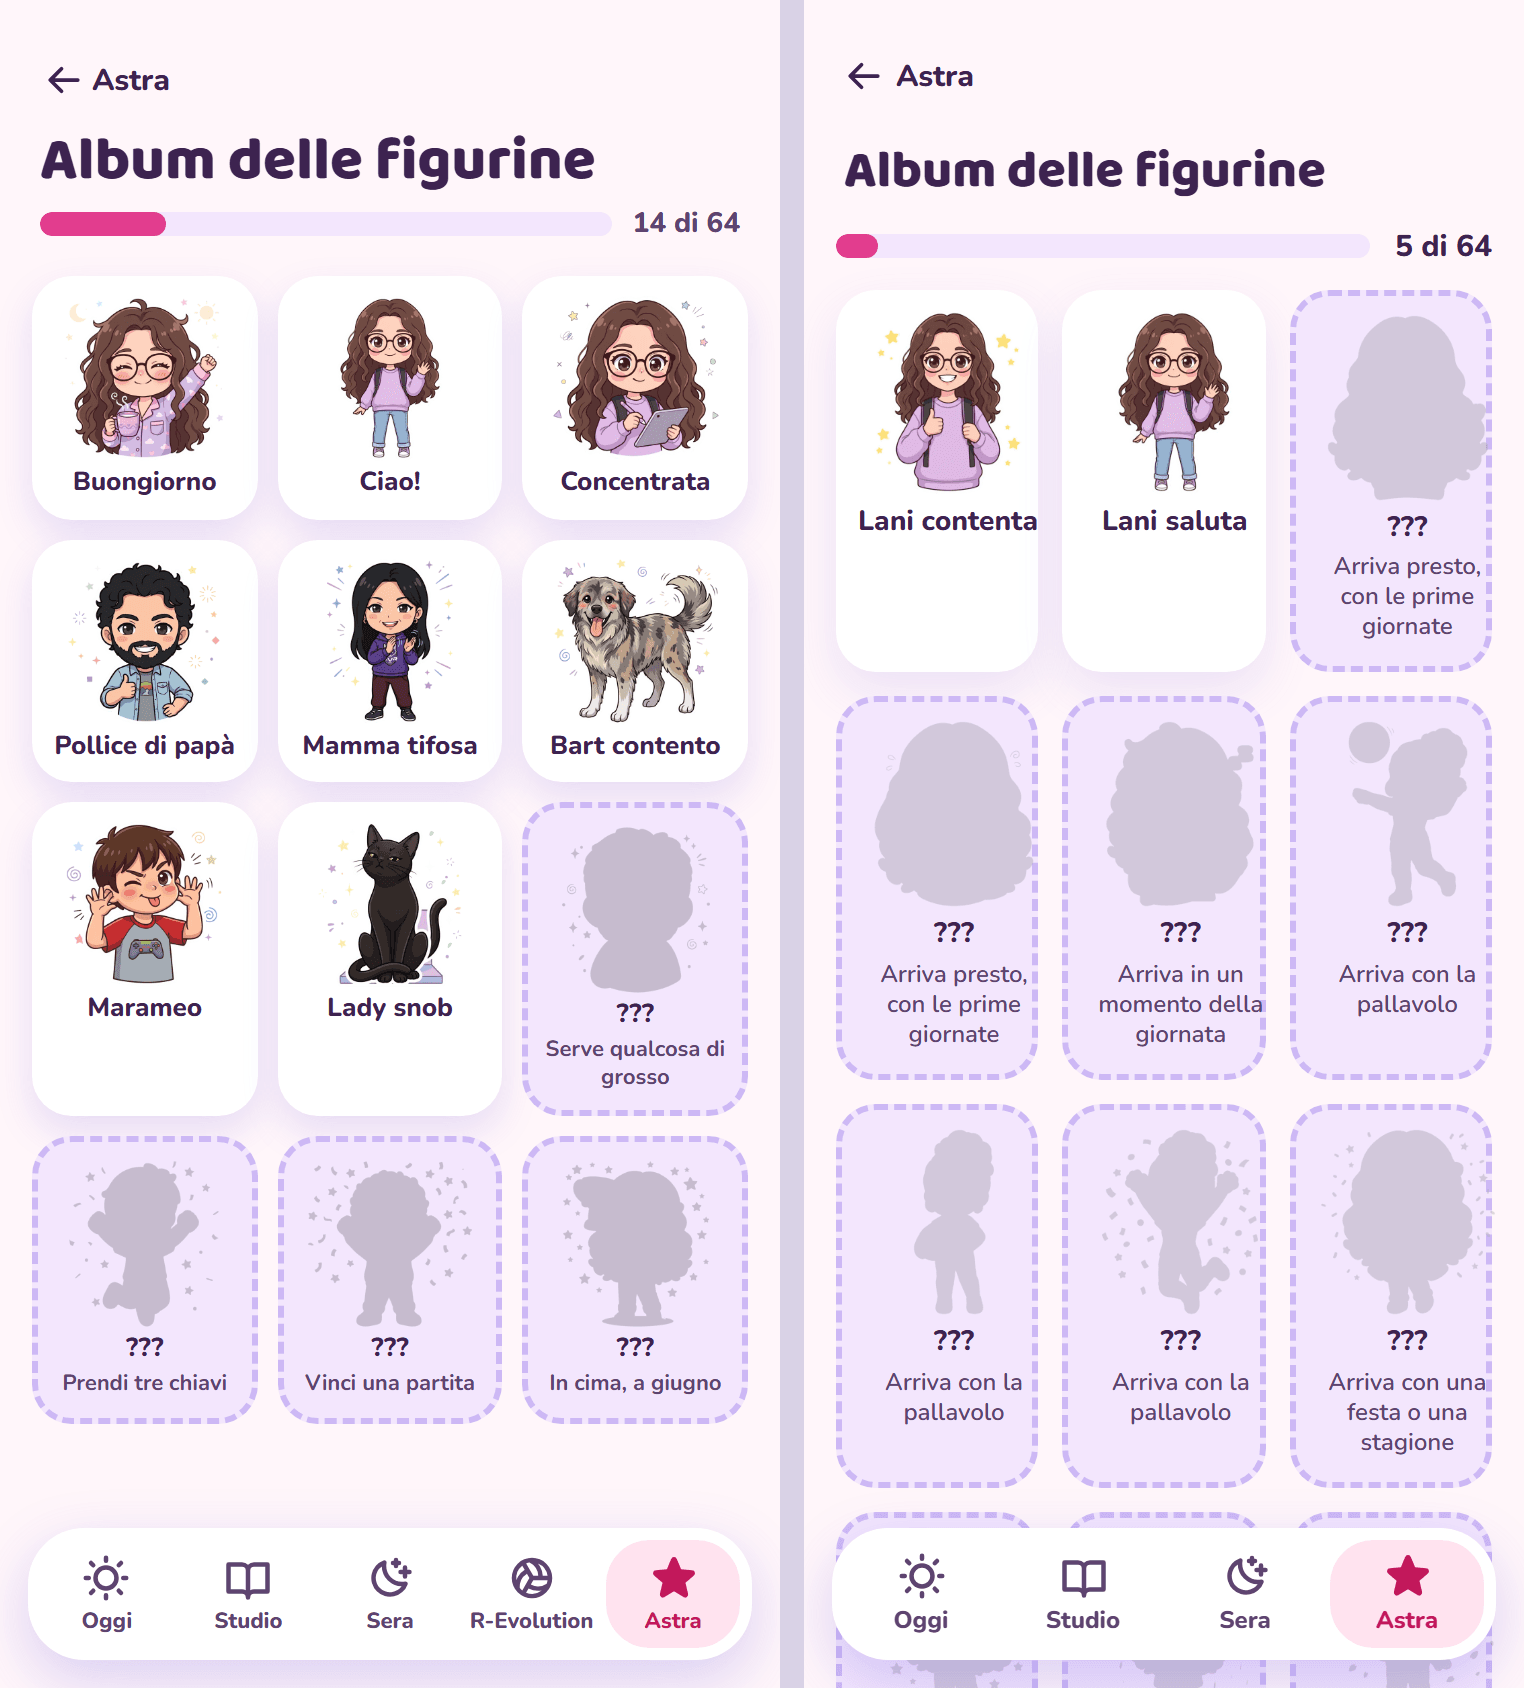
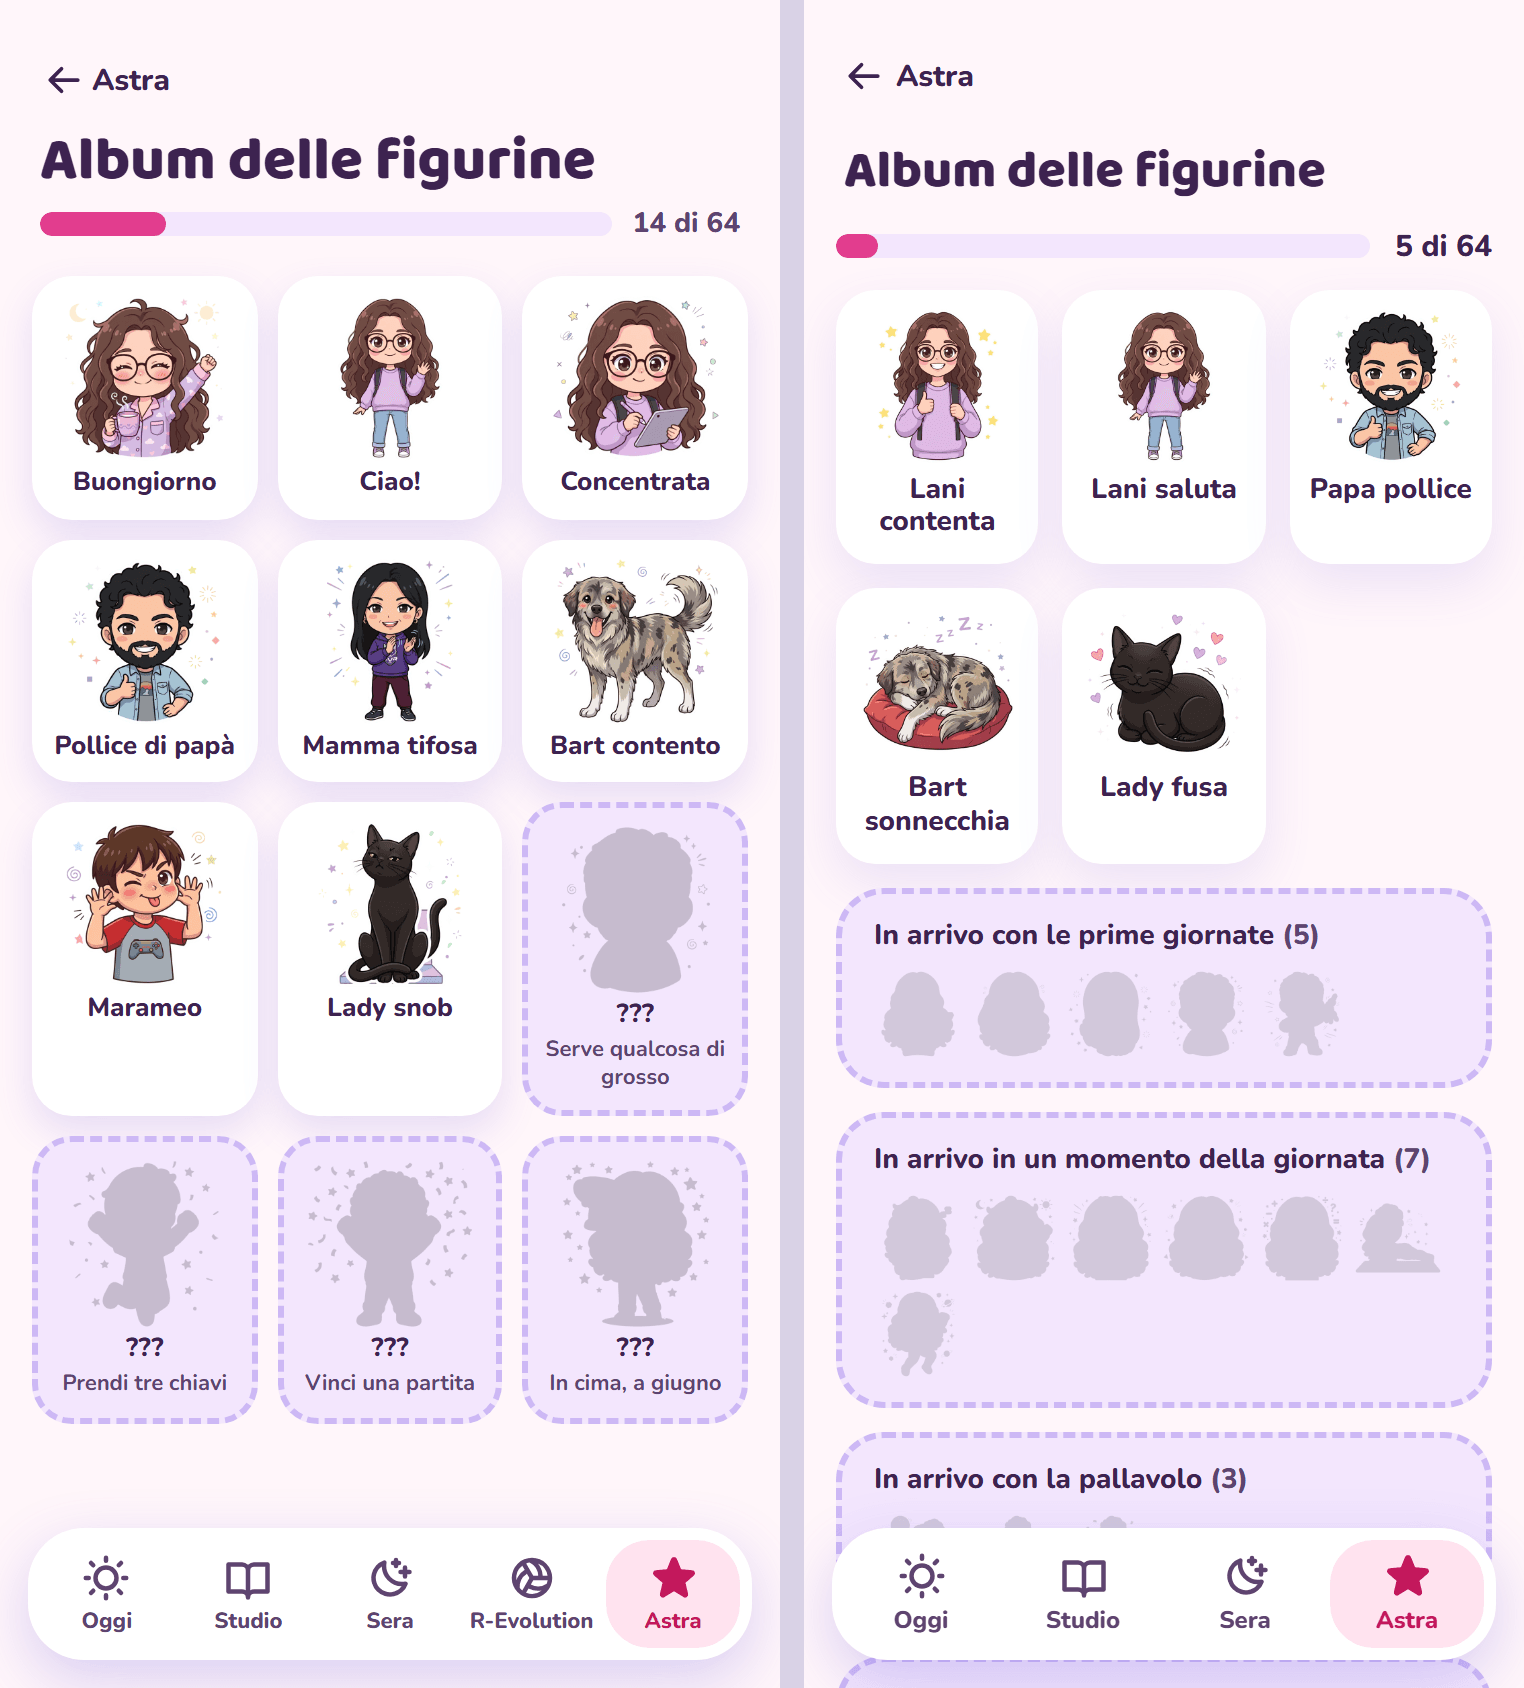
Revisione UI 12 (Album): figurine da prendere raccolte per momento
- le caselle bloccate dello stesso momento stanno in un riquadro, es.
  'In arrivo con la pallavolo (3)', con le sagome piccole; la serie
  nera in 'Si riscattano con 7 giorni fatti bene (n)'
- figurine prese con l'immagine a 80 px, caselle più regolari
- nome delle figurine: 'Papà pollice' (era 'Papa'), anche nella riga
  'Nuova figurina' dei popup; prova nuova

diff --git a/src/Figurine.tsx b/src/Figurine.tsx
@@ -13,19 +13,21 @@ type Voto = { materia_id: string; data: string; voto: number; materie: { nome: s
 const POSE = manifest.avatar.filter((a) => a.personaggio !== 'allenatore');
 const NERA = (tono: string) => tono === 'arrabbiato' || tono === 'dispettoso';
 // ponytail: indizi per categoria; se servono indizi posa per posa, metterli nel manifest.
-const INDIZI: Record<string, string> = {
-  base: 'Arriva presto, con le prime giornate',
-  momento: 'Arriva in un momento della giornata',
-  sport: 'Arriva con la pallavolo',
-  stagione: 'Arriva con una festa o una stagione',
-  negativo: 'Arriva nei giorni storti',
-  extra: 'Rara: esce da un forziere',
-  tifo: 'Arriva quando mamma o papà fanno il tifo',
-  affettuoso: 'Arriva con Leo',
-  scherzoso: 'Arriva con Leo',
-  passioni: 'Rara: esce da un forziere',
-  animale: 'Arriva con Bart o Lady',
+/** Le figurine ancora da prendere stanno in un riquadro per momento (decisione del signore, 9/11). */
+const IN_ARRIVO: Record<string, string> = {
+  base: 'In arrivo con le prime giornate',
+  momento: 'In arrivo in un momento della giornata',
+  sport: 'In arrivo con la pallavolo',
+  stagione: 'In arrivo con una festa o una stagione',
+  negativo: 'In arrivo nei giorni storti',
+  extra: 'Rare: escono dai forzieri',
+  tifo: 'In arrivo quando mamma o papà fanno il tifo',
+  affettuoso: 'In arrivo con Leo',
+  scherzoso: 'In arrivo con Leo',
+  passioni: 'Rare: escono dai forzieri',
+  animale: 'In arrivo con Bart o Lady',
 };
+const RISCATTO = 'Si riscattano con 7 giorni fatti bene';
 
 export function Figurina({ chiudi }: { chiudi: () => void }) {
   useSfondo('viola');
@@ -141,15 +143,29 @@ export function Album({ chiudi }: { chiudi: () => void }) {
   const normali = POSE.filter((p) => !NERA(p.tono));
   const nere = POSE.filter((p) => NERA(p.tono));
   const prese64 = POSE.filter((p) => prese.has(p.id)).length;
-  const casella = (p: (typeof POSE)[number], nera: boolean) => {
-    const presa = prese.has(p.id);
-    return (
-      <li key={p.id} className={presa ? 'presa' : 'da-scoprire'}>
-        <img src={`/${p.webp}`} alt={presa ? p.descrizione : ''} width={96} height={96} loading="lazy" />
-        {presa ? <b>{nomeFigurina(p.id)}</b> : <b aria-hidden>???</b>}
-        {!presa && <small>{nera ? 'Si riscatta con 7 giorni fatti bene' : INDIZI[p.categoria] ?? 'Da scoprire'}</small>}
-      </li>
-    );
+  type Posa = (typeof POSE)[number];
+  const presa = (p: Posa) => (
+    <li key={p.id} className="presa">
+      <img src={`/${p.webp}`} alt={p.descrizione} width={96} height={96} loading="lazy" />
+      <b>{nomeFigurina(p.id)}</b>
+    </li>
+  );
+  /** Le figurine da prendere, raccolte per momento: "In arrivo con la pallavolo (6)" con le sagome piccole. */
+  const inArrivo = (pose: Posa[], titolo: (p: Posa) => string) => {
+    const gruppi = new Map<string, Posa[]>();
+    for (const p of pose.filter((x) => !prese.has(x.id))) gruppi.set(titolo(p), [...(gruppi.get(titolo(p)) ?? []), p]);
+    return [...gruppi].map(([nome, lista]) => (
+      <div key={nome} className="in-arrivo">
+        <p>
+          {nome} <span>({lista.length})</span>
+        </p>
+        <div className="sagome" aria-hidden>
+          {lista.map((p) => (
+            <img key={p.id} src={`/${p.webp}`} alt="" width={44} height={44} loading="lazy" />
+          ))}
+        </div>
+      </div>
+    ));
   };
 
   return (
@@ -164,10 +180,12 @@ export function Album({ chiudi }: { chiudi: () => void }) {
           {prese64} di {POSE.length}
         </p>
       </div>
-      <ul className="album">{normali.map((p) => casella(p, false))}</ul>
+      <ul className="album">{normali.filter((p) => prese.has(p.id)).map(presa)}</ul>
+      {inArrivo(normali, (p) => IN_ARRIVO[p.categoria] ?? 'Da scoprire')}
       <h2>Serie nera</h2>
       <p className="nota">Non danno passi: si sbloccano con il riscatto. L'album si completa anche senza.</p>
-      <ul className="album">{nere.map((p) => casella(p, true))}</ul>
+      {nere.some((p) => prese.has(p.id)) && <ul className="album">{nere.filter((p) => prese.has(p.id)).map(presa)}</ul>}
+      {inArrivo(nere, () => RISCATTO)}
     </section>
   );
 }

diff --git a/src/lib/copione/copione.test.ts b/src/lib/copione/copione.test.ts
@@ -1,6 +1,6 @@
 import { describe, expect, it } from 'vitest';
 import config from '../../../data/config-gioco.json';
-import { NOTIFICHE, POPUP, componi, notifica, popupMostrabile, popupVoto, riempi, votoScritto, type ChiavePopup, type ChiaveNotifica } from './index';
+import { NOTIFICHE, POPUP, componi, notifica, nomeFigurina, popupMostrabile, popupVoto, riempi, votoScritto, type ChiavePopup, type ChiaveNotifica } from './index';
 
 // Valori di prova lunghi, per stare larghi con i limiti.
 const ESEMPIO = {
@@ -64,6 +64,8 @@ describe('copione', () => {
     expect(popupVoto(7)).toBe('voto_7_senza_ripasso');
     expect(popupVoto(5)).toBe('voto_insufficiente');
     expect(popupVoto(4.5, 4.5, 2)).toBe('voto_insufficiente_ancora');
+    expect(nomeFigurina('papa-pollice')).toBe('Papà pollice');
+    expect(nomeFigurina('lani-contenta')).toBe('Lani contenta');
     expect(votoScritto(7.5)).toBe('7½');
     expect(votoScritto(8)).toBe('8');
   });

diff --git a/src/stile.css b/src/stile.css
@@ -534,3 +534,12 @@ dialog.velo:focus { outline: none; }
 .tendenza svg { color: inherit; }
 .tendenza.tsu { color: var(--verde); }
 .tendenza.tgiu { color: var(--accento); }
+
+/* Album: le figurine da prendere raccolte per momento, con le sagome piccole */
+.in-arrivo { display: flex; flex-direction: column; gap: 8px; padding: 12px 16px; border-radius: 24px; background: var(--lilla); border: 3px dashed var(--lilla-medio); }
+.in-arrivo p { margin: 0; font: 800 14px/1.3 Nunito, sans-serif; color: var(--testo); }
+.in-arrivo p span { color: var(--testo-2); }
+.sagome { display: flex; flex-wrap: wrap; gap: 4px; }
+.sagome img { filter: brightness(0) invert(0.55) sepia(0.2) hue-rotate(220deg) opacity(0.35); }
+.album-pagina > .nota { padding-left: 4px; margin: 0; }
+.album li img { width: 80px; height: 80px; object-fit: contain; }

diff --git a/src/lib/copione/index.ts b/src/lib/copione/index.ts
@@ -107,7 +107,7 @@ export function popupVoto(voto: number, precedente?: number, insufficienzeMateri
 }
 
 /** "lani-contenta" -> "Lani contenta" (nome della figurina). */
-export const nomeFigurina = (posa: string) => posa.replace(/-/g, ' ').replace(/^./, (c) => c.toUpperCase());
+export const nomeFigurina = (posa: string) => posa.replace(/^papa(?=-|$)/, 'papà').replace(/-/g, ' ').replace(/^./, (c) => c.toUpperCase());
 
 /** "7.5" -> "7½", "8" -> "8": i voti come li scrive la scuola. */
 export const votoScritto = (v: number) => (v % 1 === 0.5 ? `${Math.floor(v)}½` : String(Math.round(v * 100) / 100).replace('.', ','));
